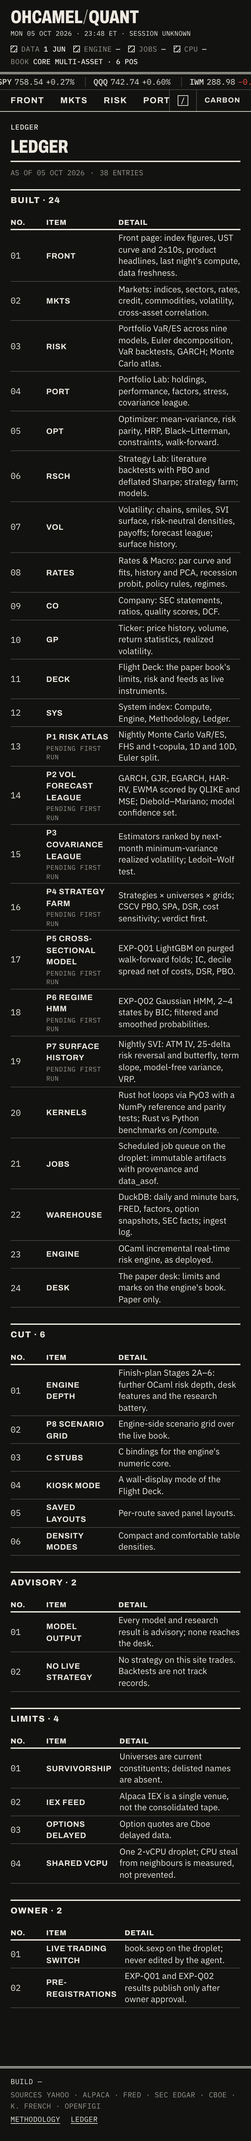
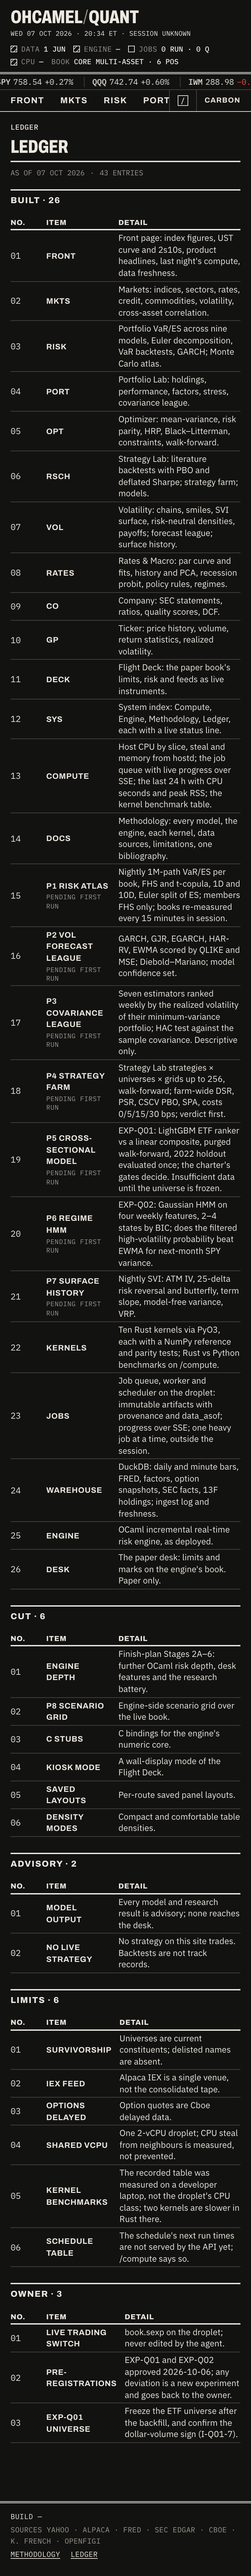
feat(web): P2-7 System reads engine and host status; Ledger re-dated 2026-10-07 and accurate to what is built

diff --git a/quant/web/src/pages/ledger/entries.ts b/quant/web/src/pages/ledger/entries.ts
@@ -12,7 +12,7 @@ export interface LedgerEntry {
   pending?: boolean;
 }
 
-export const LEDGER_AS_OF = "2026-10-05";
+export const LEDGER_AS_OF = "2026-10-07";
 
 export const SECTION_ORDER: LedgerSection[] = ["BUILT", "CUT", "ADVISORY", "LIMITS", "OWNER"];
 
@@ -29,17 +29,19 @@ export const LEDGER: LedgerEntry[] = [
   { section: "BUILT", item: "CO", detail: "Company: SEC statements, ratios, quality scores, DCF." },
   { section: "BUILT", item: "GP", detail: "Ticker: price history, volume, return statistics, realized volatility." },
   { section: "BUILT", item: "DECK", detail: "Flight Deck: the paper book's limits, risk and feeds as live instruments." },
-  { section: "BUILT", item: "SYS", detail: "System index: Compute, Engine, Methodology, Ledger." },
-  { section: "BUILT", item: "P1 RISK ATLAS", detail: "Nightly Monte Carlo VaR/ES, FHS and t-copula, 1D and 10D, Euler split.", pending: true },
+  { section: "BUILT", item: "SYS", detail: "System index: Compute, Engine, Methodology, Ledger, each with a live status line." },
+  { section: "BUILT", item: "COMPUTE", detail: "Host CPU by slice, steal and memory from hostd; the job queue with live progress over SSE; the last 24 h with CPU seconds and peak RSS; the kernel benchmark table." },
+  { section: "BUILT", item: "DOCS", detail: "Methodology: every model, the engine, each kernel, data sources, limitations, one bibliography." },
+  { section: "BUILT", item: "P1 RISK ATLAS", detail: "Nightly 1M-path VaR/ES per book, FHS and t-copula, 1D and 10D, Euler split of ES; members FHS only; books re-measured every 15 minutes in session.", pending: true },
   { section: "BUILT", item: "P2 VOL FORECAST LEAGUE", detail: "GARCH, GJR, EGARCH, HAR-RV, EWMA scored by QLIKE and MSE; Diebold–Mariano; model confidence set.", pending: true },
-  { section: "BUILT", item: "P3 COVARIANCE LEAGUE", detail: "Estimators ranked by next-month minimum-variance realized volatility; Ledoit–Wolf test.", pending: true },
-  { section: "BUILT", item: "P4 STRATEGY FARM", detail: "Strategies × universes × grids; CSCV PBO, SPA, DSR, cost sensitivity; verdict first.", pending: true },
-  { section: "BUILT", item: "P5 CROSS-SECTIONAL MODEL", detail: "EXP-Q01 LightGBM on purged walk-forward folds; IC, decile spread net of costs, DSR, PBO.", pending: true },
-  { section: "BUILT", item: "P6 REGIME HMM", detail: "EXP-Q02 Gaussian HMM, 2–4 states by BIC; filtered and smoothed probabilities.", pending: true },
+  { section: "BUILT", item: "P3 COVARIANCE LEAGUE", detail: "Seven estimators ranked weekly by the realized volatility of their minimum-variance portfolio; HAC test against the sample covariance. Descriptive only.", pending: true },
+  { section: "BUILT", item: "P4 STRATEGY FARM", detail: "Strategy Lab strategies × universes × grids up to 256, walk-forward; farm-wide DSR, PSR, CSCV PBO, SPA, costs 0/5/15/30 bps; verdict first.", pending: true },
+  { section: "BUILT", item: "P5 CROSS-SECTIONAL MODEL", detail: "EXP-Q01: LightGBM ETF ranker vs a linear composite, purged walk-forward, 2022 holdout evaluated once; the charter's gates decide. Insufficient data until the universe is frozen.", pending: true },
+  { section: "BUILT", item: "P6 REGIME HMM", detail: "EXP-Q02: Gaussian HMM on four weekly features, 2–4 states by BIC; does the filtered high-volatility probability beat EWMA for next-month SPY variance.", pending: true },
   { section: "BUILT", item: "P7 SURFACE HISTORY", detail: "Nightly SVI: ATM IV, 25-delta risk reversal and butterfly, term slope, model-free variance, VRP.", pending: true },
-  { section: "BUILT", item: "KERNELS", detail: "Rust hot loops via PyO3 with a NumPy reference and parity tests; Rust vs Python benchmarks on /compute." },
-  { section: "BUILT", item: "JOBS", detail: "Scheduled job queue on the droplet: immutable artifacts with provenance and data_asof." },
-  { section: "BUILT", item: "WAREHOUSE", detail: "DuckDB: daily and minute bars, FRED, factors, option snapshots, SEC facts; ingest log." },
+  { section: "BUILT", item: "KERNELS", detail: "Ten Rust kernels via PyO3, each with a NumPy reference and parity tests; Rust vs Python benchmarks on /compute." },
+  { section: "BUILT", item: "JOBS", detail: "Job queue, worker and scheduler on the droplet: immutable artifacts with provenance and data_asof; progress over SSE; one heavy job at a time, outside the session." },
+  { section: "BUILT", item: "WAREHOUSE", detail: "DuckDB: daily and minute bars, FRED, factors, option snapshots, SEC facts, 13F holdings; ingest log and freshness." },
   { section: "BUILT", item: "ENGINE", detail: "OCaml incremental real-time risk engine, as deployed." },
   { section: "BUILT", item: "DESK", detail: "The paper desk: limits and marks on the engine's book. Paper only." },
   // ---------------------------------------------------------------- cut
@@ -57,7 +59,10 @@ export const LEDGER: LedgerEntry[] = [
   { section: "LIMITS", item: "IEX FEED", detail: "Alpaca IEX is a single venue, not the consolidated tape." },
   { section: "LIMITS", item: "OPTIONS DELAYED", detail: "Option quotes are Cboe delayed data." },
   { section: "LIMITS", item: "SHARED VCPU", detail: "One 2-vCPU droplet; CPU steal from neighbours is measured, not prevented." },
+  { section: "LIMITS", item: "KERNEL BENCHMARKS", detail: "The recorded table was measured on a developer laptop, not the droplet's CPU class; two kernels are slower in Rust there." },
+  { section: "LIMITS", item: "SCHEDULE TABLE", detail: "The schedule's next run times are not served by the API yet; /compute says so." },
   // ---------------------------------------------------------------- owner
   { section: "OWNER", item: "LIVE TRADING SWITCH", detail: "book.sexp on the droplet; never edited by the agent." },
-  { section: "OWNER", item: "PRE-REGISTRATIONS", detail: "EXP-Q01 and EXP-Q02 results publish only after owner approval." },
+  { section: "OWNER", item: "PRE-REGISTRATIONS", detail: "EXP-Q01 and EXP-Q02 approved 2026-10-06; any deviation is a new experiment and goes back to the owner." },
+  { section: "OWNER", item: "EXP-Q01 UNIVERSE", detail: "Freeze the ETF universe after the backfill, and confirm the dollar-volume sign (I-Q01-7)." },
 ];

diff --git a/quant/web/src/pages/System.tsx b/quant/web/src/pages/System.tsx
@@ -1,6 +1,10 @@
 /**
- * System (/system): the index of the four back-office pages, each with a one-line mono
- * status from GET /api/ops (job counts, engine mode, build sha) or the Ledger's date.
+ * System (/system): the index of the four back-office pages, each with a one-line mono status:
+ *   COMPUTE  GET /api/ops (job counts) and GET /api/ops/host (CPU, memory)
+ *   ENG      GET /api/engine/status (mode, feed; 503 → BRIDGE OFF / UNREACHABLE)
+ *   DOCS     the Methodology's own counts
+ *   LEDGER   the Ledger's date and entry count
+ * A read that fails says so; nothing is guessed.
  */
 import type { ReactNode } from "react";
 import { Link } from "react-router-dom";
@@ -8,10 +12,14 @@ import { Page } from "../components";
 import { Lamp, type LampState } from "../design";
 import { fmtStamp } from "../design/stamp";
 import { absentLabel } from "../lib/artifacts";
+import { DataUnavailableError } from "../lib/api";
+import { fmtNum, fmtPct } from "../lib/format";
+import { useApiQuery } from "../lib/query";
 import { useOps, type OpsOut } from "../shell/ops";
+import type { EngineStatus } from "./engine/types";
 import { LEDGER, LEDGER_AS_OF } from "./ledger/entries";
+import { KERNEL_API } from "./methodology/compute";
 import { MODELS } from "./methodology/models";
-import { REFS } from "./methodology/references";
 import "./ledger/ledger.css";
 
 interface Row {
@@ -22,53 +30,81 @@ interface Row {
   status: ReactNode;
 }
 
-function opsLine(ops: ReturnType<typeof useOps>): string | null {
-  if (ops.isLoading) return "OPS …";
-  if (ops.isError) return `OPS ${absentLabel(ops.error) ?? "ERROR"}`;
+type Q<T> = { data?: T; isLoading: boolean; isError: boolean; error: unknown };
+
+interface HostLite {
+  cpus?: number | null;
+  latest?: { cpu?: number | null; mem_total?: number | null; mem_available?: number | null } | null;
+}
+
+function down(label: string, q: Q<unknown>): string | null {
+  if (q.isLoading) return `${label} …`;
+  if (q.isError) return `${label} ${absentLabel(q.error) ?? "ERROR"}`;
   return null;
 }
 
-function rows(ops: ReturnType<typeof useOps>): Row[] {
-  const d: OpsOut | undefined = ops.data;
-  const down = opsLine(ops);
-  const j = d?.jobs;
-  const sha = d?.build?.git_sha;
+function computeStatus(ops: Q<OpsOut>, host: Q<HostLite>): string {
+  const j = ops.data?.jobs;
+  const jobs = down("JOBS", ops) ?? (j ? `QUEUED ${fmtNum(j.queued, 0)} · RUNNING ${fmtNum(j.running, 0)} · DONE 24H ${fmtNum(j.done_24h, 0)} · FAILED 24H ${fmtNum(j.failed_24h, 0)}` : "JOBS NOT YET RUN");
+  const l = host.data?.latest;
+  const h = down("HOST", host) ?? (l ? `CPU ${fmtPct(l.cpu, 0)} · MEM ${l.mem_total && l.mem_available != null ? fmtPct(1 - l.mem_available / l.mem_total, 0) : "—"}` : "HOST NO SAMPLE");
+  return `${jobs} · ${h}`;
+}
+
+function engineStatus(st: Q<EngineStatus>): { lamp: LampState; text: string } {
+  if (st.isLoading) return { lamp: "stale", text: "ENGINE …" };
+  if (st.isError) {
+    const off = st.error instanceof DataUnavailableError && (st.error.body as { configured?: boolean } | undefined)?.configured === false;
+    return { lamp: off ? "idle" : "fault", text: off ? "BRIDGE OFF" : `ENGINE ${absentLabel(st.error) ?? "ERROR"}` };
+  }
+  const d = st.data!;
+  return {
+    lamp: d.health?.healthy ? "ok" : "fault",
+    text: `${(d.ops?.mode ?? "MODE —").toUpperCase()} · FEED ${d.health?.healthy ? "HEALTHY" : "STALE"} · ${fmtNum(d.health?.symbols?.length, 0)} SYMBOLS · RTT ${fmtNum(d.latency_ms, 0)} MS`,
+  };
+}
+
+function rows(ops: Q<OpsOut>, host: Q<HostLite>, eng: Q<EngineStatus>): Row[] {
+  const j = ops.data?.jobs;
+  const e = engineStatus(eng);
   return [
     {
       code: "COMPUTE",
       to: "/compute",
       title: "Compute",
       lamp: { state: !j ? "stale" : (j.failed_24h ?? 0) > 0 ? "fault" : "ok", label: "Jobs" },
-      status: down ?? (j ? `QUEUED ${j.queued ?? "—"} · RUNNING ${j.running ?? "—"} · DONE 24H ${j.done_24h ?? "—"} · FAILED 24H ${j.failed_24h ?? "—"}` : "JOBS NOT YET RUN"),
+      status: computeStatus(ops, host),
     },
     {
       code: "ENG",
       to: "/engine",
       title: "Live Engine",
-      lamp: { state: d?.mode ? "ok" : "stale", label: "Engine" },
-      status: down ?? `ENGINE ${d?.mode ? d.mode.toUpperCase() : "—"}`,
+      lamp: { state: e.lamp, label: "Engine" },
+      status: e.text,
     },
     {
       code: "DOCS",
       to: "/methodology",
       title: "Methodology",
-      status: `${MODELS.length} MODELS · ${Object.keys(REFS).length} REFERENCES${sha ? ` · BUILD ${sha.slice(0, 7)}` : ""}`,
+      status: `${fmtNum(MODELS.length, 0)} MODELS · ${fmtNum(KERNEL_API.length, 0)} KERNELS`,
     },
     {
       code: "LEDGER",
       to: "/ledger",
       title: "Ledger",
-      status: `AS OF ${fmtStamp(LEDGER_AS_OF)} · ${LEDGER.length} ENTRIES`,
+      status: `AS OF ${fmtStamp(LEDGER_AS_OF)} · ${fmtNum(LEDGER.length, 0)} ENTRIES`,
     },
   ];
 }
 
 export default function System() {
   const ops = useOps();
+  const host = useApiQuery<HostLite>("/ops/host", undefined, { staleTime: 15_000 });
+  const eng = useApiQuery<EngineStatus>("/engine/status", undefined, { staleTime: 15_000 });
   return (
     <Page title="System">
       <ul className="sys-rows">
-        {rows(ops).map((r) => (
+        {rows(ops, host, eng).map((r) => (
           <li key={r.code} className="sys-row">
             <Link to={r.to} className="sys-link">
               <span className="sys-code">{r.code}</span>

diff --git a/quant/web/src/pages/ledger/entries.test.ts b/quant/web/src/pages/ledger/entries.test.ts
@@ -11,3 +11,21 @@ describe("Ledger entries", () => {
     expect(LEDGER.find((e) => e.item === "FRONT")?.pending).toBeFalsy();
   });
 });
+
+describe("Ledger accuracy (re-dated 2026-10-07, Ship plan P2-7)", () => {
+  it("counts the kernels the Methodology documents", async () => {
+    const { KERNEL_API } = await import("../methodology/compute");
+    expect(KERNEL_API).toHaveLength(10);
+    expect(LEDGER.find((e) => e.item === "KERNELS")?.detail).toMatch(/^Ten Rust kernels/);
+  });
+  it("has one row per item, and every section non-empty", async () => {
+    const { SECTION_ORDER } = await import("./entries");
+    const items = LEDGER.map((e) => `${e.section}:${e.item}`);
+    expect(new Set(items).size).toBe(items.length);
+    for (const s of SECTION_ORDER) expect(LEDGER.some((e) => e.section === s), s).toBe(true);
+  });
+  it("is dated by an ISO date", async () => {
+    const { LEDGER_AS_OF } = await import("./entries");
+    expect(LEDGER_AS_OF).toMatch(/^\d{4}-\d{2}-\d{2}$/);
+  });
+});
